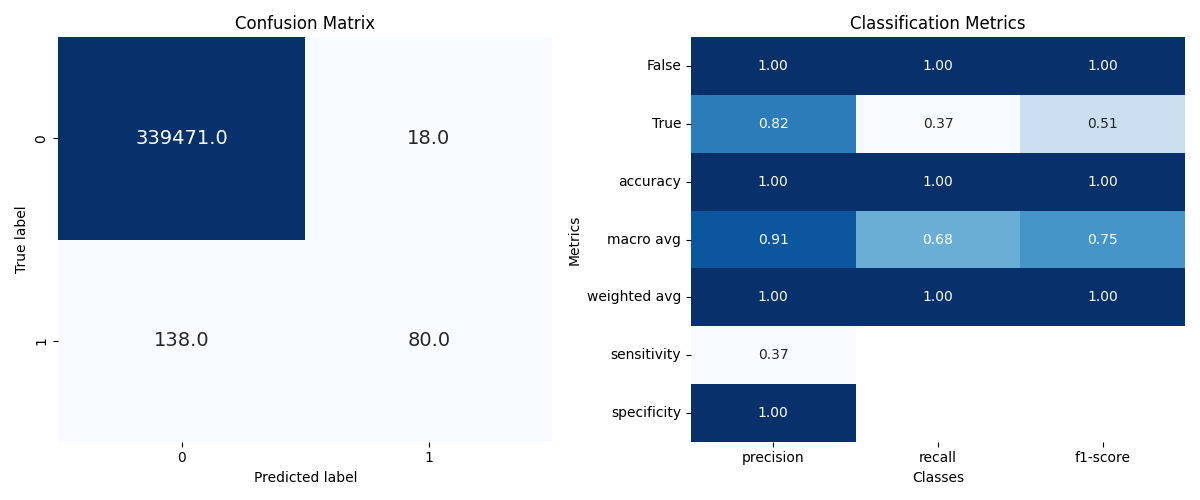
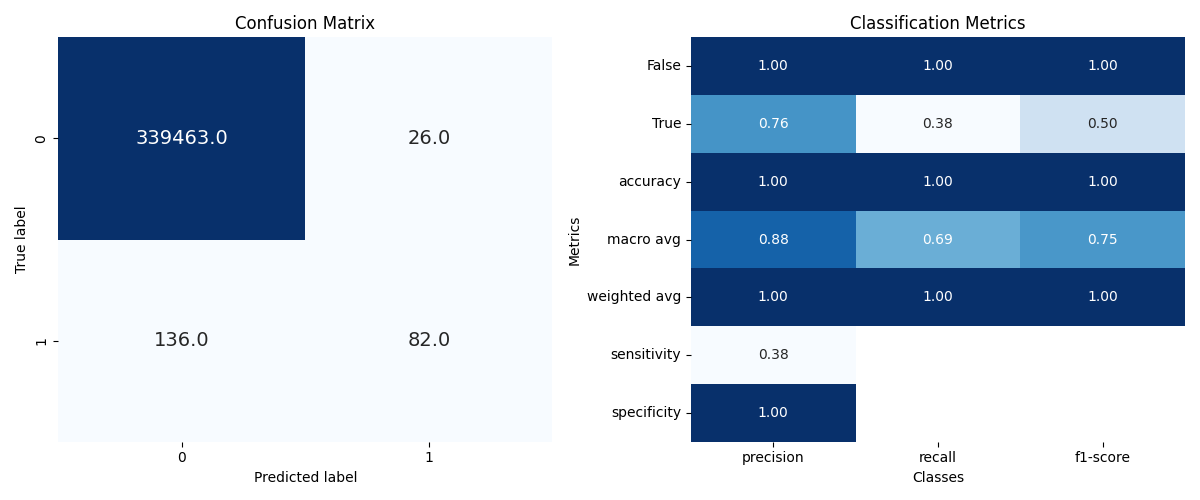
outputs

diff --git a/use_case_new_strategy.py b/use_case_new_strategy.py
@@ -10,7 +10,22 @@ from plots import plot_estimations_w_error_bars, plot_screening_counts
 from preprocessing import preprocessing
 import matplotlib.pyplot as plt
 
+import yaml
+with open('config.yaml', 'r') as file:
+    cfg = yaml.safe_load(file)
+
+import argparse
+
 np.seterr(divide='ignore', invalid = 'ignore')
+
+parser = argparse.ArgumentParser(description="Update the influence diagram")
+    
+# Introduction of arguments
+parser.add_argument('--single_run', type=str, default=cfg["single_run"],)
+parser.add_argument('--num_runs', type=int, default= cfg["num_runs"],)
+
+# Parse the arguments
+args = parser.parse_args()
 
 net = pysmile.Network()
 net.read_file(f"outputs/linear_rel_point_cond_mut_info_elicitFalse_newtestFalse/decision_models/DM_screening_rel_point_cond_mut_info_linear.xdsl")
@@ -40,8 +55,9 @@ operational_limit = {
 # operational_limit = pd.DataFrame(operational_limit, index = [0])
 
 
-single_run = True
-num_runs = 10
+single_run = bool(args.single_run)
+num_runs = int(args.num_runs)
+
 
 if single_run:
     print("A single simulation of the tests will be performed...")
@@ -63,7 +79,7 @@ if single_run:
 
     y_true_new = df_test["CRC"]
     y_pred_new = df_test["Final_decision"]
-    report = plot_classification_results(y_true_new, y_pred_new, label = "new_strategy")
+    report, conf_matrix = plot_classification_results(y_true_new, y_pred_new, total_cost = total_cost, label = "new_strategy")
     print(report)
 
 
@@ -77,9 +93,8 @@ if single_run:
 
     y_true_new = df_test_for_new_str_w_lim["CRC"]
     y_pred_new = df_test_for_new_str_w_lim["Final_decision"]
-    report = plot_classification_results(y_true_new, y_pred_new, label = "new_strategy_with_limits")
+    report, conf_matrix = plot_classification_results(y_true_new, y_pred_new, total_cost = total_cost,  label = "new_strategy_with_limits")
     print(report)
-
 
 
     print("----------------------")
@@ -92,7 +107,7 @@ if single_run:
 
     y_true_old = df_test_for_old_str["CRC"]
     y_pred_old = df_test_for_old_str["Final_decision"]
-    report = plot_classification_results(y_true_old, y_pred_old, label = "old_strategy")
+    report, conf_matrix = plot_classification_results(y_true_old, y_pred_old, total_cost = total_cost, label = "old_strategy")
     print(report)
 
 else:
@@ -118,24 +133,24 @@ else:
         df_test_old = df_test.copy()
         
 
-        df_test_new, total_cost_new, time_taken = new_screening_strategy(df_test_new, net, possible_outcomes, counts, operational_limit = dict(zip(operational_limit.keys(), counts)))
+        df_test_new, total_cost_new, time_taken = new_screening_strategy(df_test_new, net, possible_outcomes, counts = counts, limit=False, operational_limit = dict(zip(operational_limit.keys(), counts)))
 
         y_true_new = df_test_new["CRC"]
         y_pred_new = df_test_new["Final_decision"]
-        report_new, conf_matrix_new = plot_classification_results(y_true_new, y_pred_new, label = "new_strategy", plot = False)
+        report_new, conf_matrix_new = plot_classification_results(y_true_new, y_pred_new, total_cost = total_cost_new, label = "new_strategy", plot = False)
 
-        report_df_new.append(report_new[:-1])
+        report_df_new.append(report_new)
         conf_matrix_new_list.append(conf_matrix_new)
         total_cost_list_new.append(total_cost_new)
 
 
-        df_test_new_w_lim, total_cost_new_w_lim, time_taken = new_screening_strategy(df_test_new_w_lim, net, possible_outcomes, operational_limit)
+        df_test_new_w_lim, total_cost_new_w_lim, time_taken = new_screening_strategy(df_test_new_w_lim, net, possible_outcomes, counts=counts, limit=True, operational_limit = operational_limit)
 
         y_true_new_w_lim = df_test_new_w_lim["CRC"]
         y_pred_new_w_lim = df_test_new_w_lim["Final_decision"]
-        report_new_w_lim, conf_matrix_new_w_lim = plot_classification_results(y_true_new_w_lim, y_pred_new_w_lim, label = "new_strategy_with_limits", plot = False)
+        report_new_w_lim, conf_matrix_new_w_lim = plot_classification_results(y_true_new_w_lim, y_pred_new_w_lim, total_cost=total_cost_new_w_lim, label = "new_strategy_with_limits", plot = False)
 
-        report_df_new_w_lim.append(report_new_w_lim[:-1])
+        report_df_new_w_lim.append(report_new_w_lim)
         conf_matrix_new_w_lim_list.append(conf_matrix_new_w_lim)
         total_cost_list_new_w_lim.append(total_cost_new_w_lim)
 
@@ -144,9 +159,9 @@ else:
 
         y_true_old = df_test_old["CRC"]
         y_pred_old = df_test_old["Final_decision"]
-        report_old, conf_matrix_old = plot_classification_results(y_true_old, y_pred_old, label = "old_strategy", plot = False)
+        report_old, conf_matrix_old = plot_classification_results(y_true_old, y_pred_old, total_cost = total_cost_old, label = "old_strategy", plot = False)
 
-        report_df_old.append(report_old[:-1])
+        report_df_old.append(report_old)
         conf_matrix_old_list.append(conf_matrix_old)
         total_cost_list_old.append(total_cost_old)
 
@@ -158,27 +173,31 @@ else:
     mean_report_new = report_df_new.groupby(level=1, sort = False).mean()
     std_report_new = report_df_new.groupby(level=1, sort = False).std()
     SE_report_new = std_report_new / np.sqrt(num_runs)
-    plot_estimations_w_error_bars(mean_report_new, std_report_new, SE_report_new, label="New strategy")
-    plot_classification_results(report_df = mean_report_new, conf_matrix = conf_matrix_new, label = "mean_new_strategy")
 
     mean_cost_new = np.array(total_cost_list_new).mean()
     std_cost_new = np.array(total_cost_list_new).std()
-    print(f"Average cost: {mean_cost_new:.2f} (+/- {std_cost_new:.2f})  €")
-    print("Average cost per patient: {:.2f} €".format(mean_cost_new/df_test.shape[0]))
+    '''print(f"Average cost: {mean_cost_new:.2f} (+/- {std_cost_new:.2f})  €")
+    print("Average cost per patient: {:.2f} €".format(mean_cost_new/df_test.shape[0]))'''
 
+    plot_estimations_w_error_bars(mean_report_new, std_report_new, SE_report_new, label="new_strategy")
+    plot_classification_results(report_df = mean_report_new, conf_matrix = conf_matrix_new, total_cost=mean_cost_new, label = "mean_new_strategy", plot= True)
 
+    
     report_df_new_w_lim = pd.concat(report_df_new_w_lim, axis = 0, keys=range(len(report_df_new_w_lim)))
     conf_matrix_new_w_lim = np.stack(conf_matrix_new_w_lim_list, axis = 0).mean(axis = 0)
     mean_report_new_w_lim = report_df_new_w_lim.groupby(level=1, sort = False).mean()
     std_report_new_w_lim = report_df_new_w_lim.groupby(level=1, sort = False).std()
     SE_report_new_w_lim = std_report_new_w_lim / np.sqrt(num_runs)
-    plot_estimations_w_error_bars(mean_report_new_w_lim, std_report_new_w_lim, SE_report_new_w_lim, label="New strategy with limits")
-    plot_classification_results(report_df = mean_report_new_w_lim, conf_matrix=conf_matrix_new_w_lim, label = "mean_new_strategy_with_limits")
 
     mean_cost_new_w_lim = np.array(total_cost_list_new_w_lim).mean()
     std_cost_new_w_lim = np.array(total_cost_list_new_w_lim).std()
-    print(f"Average cost: {mean_cost_new_w_lim:.2f} (+/- {std_cost_new_w_lim:.2f})  €")
-    print("Average cost per patient: {:.2f} €".format(mean_cost_new_w_lim/df_test.shape[0]))
+    '''print(f"Average cost: {mean_cost_new_w_lim:.2f} (+/- {std_cost_new_w_lim:.2f})  €")
+    print("Average cost per patient: {:.2f} €".format(mean_cost_new_w_lim/df_test.shape[0]))'''
+
+    plot_estimations_w_error_bars(mean_report_new_w_lim, std_report_new_w_lim, SE_report_new_w_lim, label="new_strategy_with_limits")
+    plot_classification_results(report_df = mean_report_new_w_lim, conf_matrix=conf_matrix_new_w_lim, total_cost=mean_cost_new_w_lim, label = "mean_new_strategy_with_limits", plot= True)
+
+    
 
 
     report_df_old = pd.concat(report_df_old, axis = 0, keys=range(len(report_df_old)))
@@ -186,13 +205,15 @@ else:
     mean_report_old = report_df_old.groupby(level=1, sort = False).mean()
     std_report_old = report_df_old.groupby(level=1, sort = False).std()
     SE_report_old = std_report_old / np.sqrt(num_runs)
-    plot_estimations_w_error_bars(mean_report_old, std_report_old, SE_report_old, label="Old strategy")
-    plot_classification_results(report_df = mean_report_old, conf_matrix= conf_matrix_old, label = "mean_old_strategy")
-
     mean_cost_old = np.array(total_cost_list_old).mean()
     std_cost_old = np.array(total_cost_list_old).std()
-    print(f"Average cost: {mean_cost_old:.2f} (+/- {std_cost_old:.2f})  €")
-    print("Average cost per patient: {:.2f} €".format(mean_cost_old/df_test.shape[0]))
+    '''print(f"Average cost: {mean_cost_old:.2f} (+/- {std_cost_old:.2f})  €")
+    print("Average cost per patient: {:.2f} €".format(mean_cost_old/df_test.shape[0]))'''
+
+    plot_estimations_w_error_bars(mean_report_old, std_report_old, SE_report_old, label="old_strategy")
+    plot_classification_results(report_df = mean_report_old, total_cost = mean_cost_old, conf_matrix= conf_matrix_old, label = "mean_old_strategy", plot= True)
+
+    
 
     
 

diff --git a/simulations.py b/simulations.py
@@ -3,6 +3,8 @@ import pandas as pd
 import matplotlib.pyplot as plt
 import seaborn as sns
 from sklearn.metrics import classification_report, confusion_matrix
+import pdb
+from matplotlib.patches import FancyBboxPatch
 
 def simulate_test_results(sensitivity_scr, specificity_scr, y_crc):
     """
@@ -51,7 +53,7 @@ def simulate_test_results(sensitivity_scr, specificity_scr, y_crc):
 
 
 
-def plot_classification_results(y_true=None, y_pred=None, report_df = None, conf_matrix = None, label = "", plot = True):
+def plot_classification_results(y_true=None, y_pred=None, report_df = None, conf_matrix = None, total_cost= None, label = "", plot = True):
 
     if report_df is None:
 
@@ -80,26 +82,33 @@ def plot_classification_results(y_true=None, y_pred=None, report_df = None, conf
 
     if plot:
         # Plot the confusion matrix using Seaborn for a heatmap
-        plt.figure(figsize=(12, 5))
+        fig, ax = plt.subplots(1,2, figsize=(12, 5))
 
         # First subplot: Confusion matrix
-        plt.subplot(1, 2, 1)
-        sns.heatmap(conf_matrix, annot=True, fmt='.1f', cmap='Blues', cbar=False, annot_kws={"size": 14})
-        plt.title('Confusion Matrix')
-        plt.ylabel('True label')
-        plt.xlabel('Predicted label')
+        sns.heatmap(conf_matrix, annot=True, fmt='.1f', cmap='Blues', cbar=False, annot_kws={"size": 14}, ax=ax[0])
+        ax[0].set_title('Confusion Matrix')
+        ax[0].set_ylabel('True label')
+        ax[0].set_xlabel('Predicted label')
 
         # Second subplot: Classification report as a heatmap
-        plt.subplot(1, 2, 2)
-        sns.heatmap(report_df.iloc[:, :-1], annot=True, cmap='Blues', cbar=False, fmt='.2f')
-        plt.title('Classification Metrics')
-        plt.ylabel('Metrics')
-        plt.xlabel('Classes')
-        plt.tight_layout()
+        sns.heatmap(report_df.iloc[:, :-1], annot=True, cmap='Blues', cbar=False, fmt='.2f', ax=ax[1])
+        ax[1].xaxis.tick_top()
+        ax[1].xaxis.set_label_position('top')
+        ax[1].set_title('Classification Metrics')
+        ax[1].set_ylabel('Metrics')
+        # ax[1].set_xlabel('Classes')
 
-        plt.savefig(f"outputs/{label}_classification_results.png")
-        # plt.show()
-        plt.close()
+        ax[1].text(0.39, 0.15, r"Total cost of the strategy: $\bf{" + f"{total_cost:,.2f}" + "€}$", color='black', fontsize=9,
+            ha='left', va='center', transform=ax[1].transAxes)
+        ax[1].text(0.39, 0.10, r"Mean cost per patient:  $\bf{" + f"{total_cost/(conf_matrix.sum()):,.2f}" + "€}$", color='black', fontsize=9,
+            ha='left', va='center', transform=ax[1].transAxes)
+        box = FancyBboxPatch((0.47, 0.12), 0.42, 0.03, boxstyle="round,pad=0.1", 
+                     linewidth=2, edgecolor='black', facecolor='none', transform=ax[1].transAxes)
+        ax[1].add_patch(box)
+
+        plt.tight_layout()
+        plt.savefig(f"outputs/{label}_classification_results.png", dpi=200)
+        plt.close(fig)
 
     return report_df, conf_matrix
 

diff --git a/network_functions.py b/network_functions.py
@@ -164,13 +164,15 @@ def new_screening_strategy(df_test, net, possible_outcomes, counts, limit, opera
 
 
     if limit:
-        print("Limited number of tests will be performed.")
-        df_test_ordered = reorder_df_with_limits(df_test[possible_outcomes].copy(), operational_limit)
+        if verbose:
+            print("Limited number of tests will be performed.")
         
+        df_test_ordered = reorder_df_with_limits(df_test[possible_outcomes].copy(), operational_limit)
         df_test = df_test.merge(df_test_ordered[["max_value_w_lim", "best_option_w_lim"]], left_index=True, right_index=True)
 
     else:
-        print("No limit on the number of tests.")
+        if verbose:
+            print("No limit on the number of tests.")
 
 
     df_test["Colonoscopy"] = None

diff --git a/plots.py b/plots.py
@@ -369,9 +369,9 @@ def plot_estimations_w_error_bars(mean_report, std_report, SE_report, label = ""
     plt.title('Mean (+/- std) at Each Cell')
     plt.grid(True)
 
-    plt.savefig(f"outputs/{label}_mean_SE_plot.png")
+    plt.savefig(f"outputs/mean_std_{label}_plot.png")
 
-    plt.close()
+    plt.close(fig)
 
 
 
